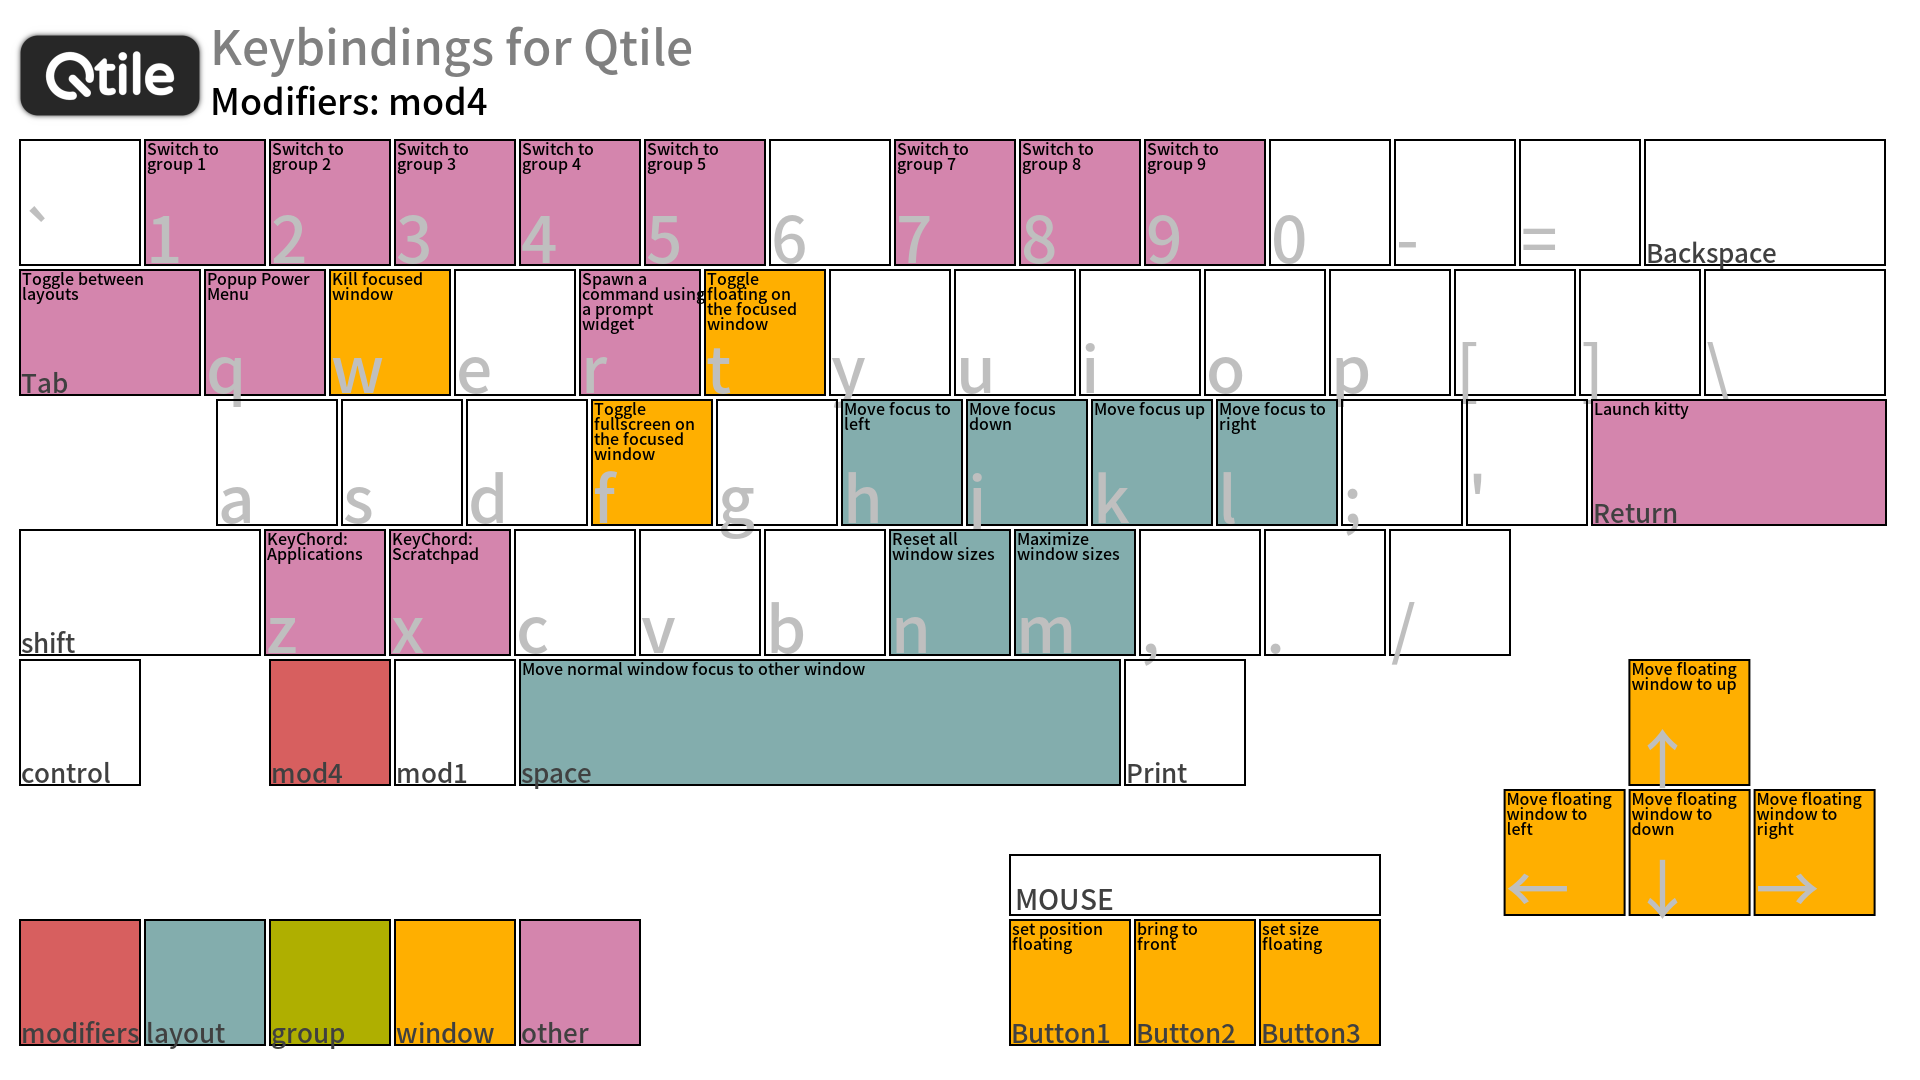
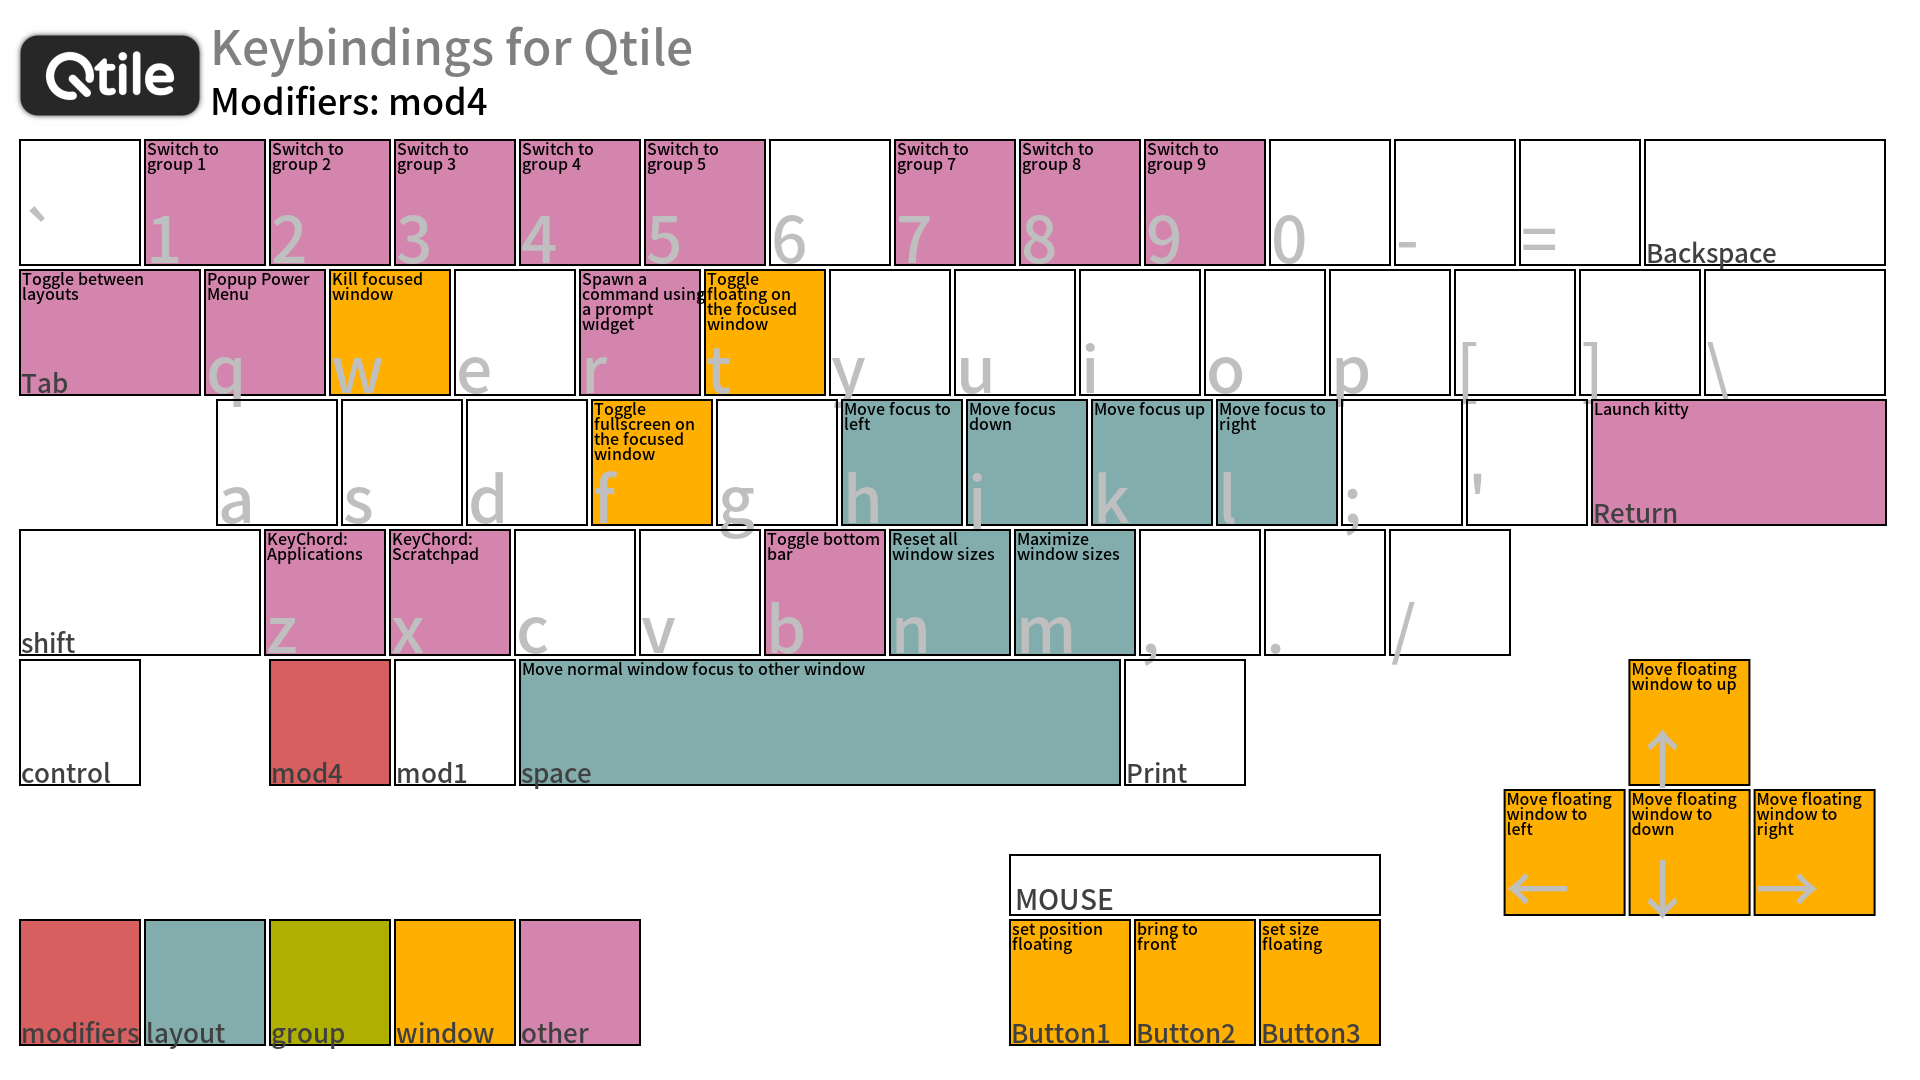
Making key binding descriptions easier to read

Changed region(s): [[0.375, 0.4889, 0.4688, 0.6111]]

diff --git a/modules/keys.py b/modules/keys.py
@@ -8,7 +8,7 @@ import os
 from libqtile.lazy import lazy
 from libqtile.config import Key, KeyChord
 #
-from modules.variables import mod1, mod4
+from modules.variables import mod4
 from modules.dmenu import dmenu_normal, dmenu_power, dmenu_terminal, dmenu_window
 from modules.popup import show_power_menu
 from modules.functions import focus_next_floating
@@ -18,37 +18,36 @@ keys = [
   # A list of available commands that can be bound to keys can be found
   # at https://docs.qtile.org/en/latest/manual/config/lazy.html
 
+
   # Switch between windows
   Key([mod4], 'h', lazy.layout.left(),  desc = 'Move focus to left'),
   Key([mod4], 'l', lazy.layout.right(), desc = 'Move focus to right'),
   Key([mod4], 'j', lazy.layout.down(),  desc = 'Move focus down'),
   Key([mod4], 'k', lazy.layout.up(),    desc = 'Move focus up'),
 
+
   # Move windows between left/right columns or move up/down in current stack.
   # Moving out of range in Columns layout will create new column.
 
   # INFO: .config/qtile · Derek Taylor / Dotfiles · GitLab
   # https://gitlab.com/dwt1/dotfiles/-/tree/master/.config/qtile?ref_type=heads
-
   Key([mod4, 'shift'], 'h',
     lazy.layout.shuffle_left(),
     lazy.layout.move_left().when(layout = ['treetab']),
     desc = 'Move window to the left/move tab left in treetab'),
-
   Key([mod4, 'shift'], 'l',
     lazy.layout.shuffle_right(),
     lazy.layout.move_right().when(layout = ['treetab']),
     desc = 'Move window to the right/move tab right in treetab'),
-
   Key([mod4, 'shift'], 'j',
     lazy.layout.shuffle_down(),
     lazy.layout.section_down().when(layout = ['treetab']),
     desc = 'Move window down/move down a section in treetab'),
-
   Key([mod4, 'shift'], 'k',
     lazy.layout.shuffle_up(),
     lazy.layout.section_up().when(layout = ['treetab']),
     desc = 'Move window up/move up a section in treetab'),
+
 
   # Grow windows. If current window is on the edge of screen and direction
   # will be to screen edge - window would shrink.
@@ -57,49 +56,53 @@ keys = [
   Key([mod4, 'control'], 'j', lazy.layout.grow_down(),  desc = 'Grow window to down'),
   Key([mod4, 'control'], 'k', lazy.layout.grow_up(),    desc = 'Grow window to up'),
 
+
   ## Key([mod4, 'shift', 'control'], 'h', lazy.layout.swap_column_left(),  desc = 'Swap Column left'),
   ## Key([mod4, 'shift', 'control'], 'l', lazy.layout.swap_column_right(), desc = 'Swap Column right'),
+
 
   Key([mod4], 'Up',    lazy.window.move_floating(0, -10), desc = 'Move floating window to up'),
   Key([mod4], 'Down',  lazy.window.move_floating(0, 10),  desc = 'Move floating window to down'),
   Key([mod4], 'Left',  lazy.window.move_floating(-10, 0), desc = 'Move floating window to left'),
   Key([mod4], 'Right', lazy.window.move_floating(10, 0),  desc = 'Move floating window to right'),
 
+
   Key([mod4, 'shift'], 'Up',   lazy.window.resize_floating(0, 10),  desc = 'Resize floating window to bottom, large'),
   Key([mod4, 'shift'], 'Down', lazy.window.resize_floating(0, -10), desc = 'Resize floating window to bottom, small'),
   Key([mod4, 'shift'], 'Left', lazy.window.resize_floating(-5, 0),  desc = 'Resize floating window to right, small'),
   Key([mod4, 'shift'], 'Right', lazy.window.resize_floating(5, 0),  desc = 'Resize floating window to right, large'),
+
 
   # Toggle between split and unsplit sides of stack.
   # Split = all windows displayed
   # Unsplit = 1 window displayed, like Max layout, but still with
   # multiple stack panes
   Key([mod4, 'shift'], 'Return', lazy.layout.toggle_split(), desc = 'Toggle between split and unsplit sides of stack'),
-  # Toggle between different layouts as defined below
+
 
   Key([mod4], 'n', lazy.layout.normalize(),         desc = 'Reset all window sizes'),
   Key([mod4], 'm', lazy.layout.maximize(),          desc = 'Maximize window sizes'),
   Key([mod4], 'f', lazy.window.toggle_fullscreen(), desc = 'Toggle fullscreen on the focused window'),
   Key([mod4], 't', lazy.window.toggle_floating(),   desc = 'Toggle floating on the focused window'),
+  Key([mod4], 'w', lazy.window.kill(),              desc = 'Kill focused window'),
+  Key([mod4], 'q', lazy.function(show_power_menu),  desc = 'Popup Power Menu'),
+  Key([mod4], 'r', lazy.spawncmd(),                 desc = 'Spawn a command using a prompt widget'),
+  Key([mod4], 'b', lazy.hide_show_bar(position = 'bottom'), desc = 'Toggle bottom bar'),
+
 
   Key([mod4, 'control'], 'r', lazy.reload_config(), desc = 'Reload the config'),
-  Key([mod4], 'r', lazy.spawncmd(),                 desc = 'Spawn a command using a prompt widget'),
-  # Key([mod4, 'control'], 'q', lazy.shutdown(),      desc = 'Shutdown Qtile, logout'),
-  Key([mod4], 'q', lazy.function(show_power_menu),  desc = 'Popup Power Menu'),
-  Key([mod4],            'w', lazy.window.kill(),   desc = 'Kill focused window'),
 
   Key([mod4, 'control'], 'a', lazy.run_extension(dmenu_window),   desc = 'Dmenu All Tasks'),
   Key([mod4, 'control'], 'd', lazy.run_extension(dmenu_normal),   desc = 'Dmenu Run Normal'),
   Key([mod4, 'control'], 'm', lazy.run_extension(dmenu_power),    desc = 'Dmenu Power Menu'),
   Key([mod4, 'control'], 't', lazy.run_extension(dmenu_terminal), desc = 'Dmenu All Terminal'),
-  #
-  Key([mod4], 'Return', lazy.spawn('kitty'), desc = 'Launch kitty'),
-  # Key([mod4], 'Return', lazy.spawn('brave') if self.qtile.current_group == "2" else lazy.spawn('kitty')),
-  Key([mod4], 'space',  lazy.layout.next(),  desc = 'Move normal window focus to other window'),
-  Key([mod4], 'Tab',    lazy.next_layout(),  desc = 'Toggle between layouts'),
 
-  Key([mod4, 'shift'  ], 'space', lazy.function(focus_next_floating), desc = 'Move floating window focus to other window'),
-  # Key([mod4, 'control'], 'b',     lazy.function(toggle_bar),          desc = 'Toggle bottom bar'),
+
+  Key([mod4], 'Tab',    lazy.next_layout(),  desc = 'Toggle between layouts'),
+  Key([mod4], 'Return', lazy.spawn('kitty'), desc = 'Launch kitty'),
+  Key([mod4], 'space',  lazy.layout.next(),  desc = 'Move normal window focus to other window'),
+  Key([mod4, 'shift'], 'space', lazy.function(focus_next_floating), desc = 'Move floating window focus to other window'),
+
 
   # NOTE: Multiple monitor?
   # Key([mod4], 'o', lazy.to_screen(0), desc = 'To Main Screen'),
@@ -112,16 +115,11 @@ keys = [
   #   desc = 'Print screen'
   # ),
 
-  # Key([mod4, mod1], 'p',
-  #   lazy.spawn("scrot -z -p 'EndeavourOS_Qtile_%Y-%m-%d_%H-%M-%S.png' -e ' mv $f ~/Pictures/'"),
-  #   desc = 'Print screen now'),
-
   # `my_scrot_now` is `command scrot -z -p "EndeavourOS_Qtile_%Y-%m-%d_%H-%M-%S.png" -e "mv \$f ~/Pictures/"`
   Key([mod4, 'control'], 'p', lazy.spawn("fish -c 'my_scrot_now'"),  desc = 'Print screen now'),
   # `my_scrot_wait` is `command scrot -c -d 10 -z -p "EndeavourOS_Qtile_%Y-%m-%d_%H-%M-%S.png" -e "mv \$f ~/Pictures/"`
   Key([mod4, 'control'], 'i', lazy.spawn("fish -c 'my_scrot_wait'"), desc = 'Print screen after 10 sec'),
 
-  # Key([mod4, 'shift'], 'q', lazy.function(show_power_menu), desc = 'Popup Power Menu'),
 
   KeyChord([mod4], 'z', [
       # TODO: brave --incognito

diff --git a/modules/functions.py b/modules/functions.py
@@ -53,13 +53,4 @@ def go_to_group_and_move_window(name: str):
   return _inner
 
 
-# NOTE: This function does not work
-# Toggle, show or hide bottom bar
-# def toggle_bar(qtile):
-#   screen = qtile.current_screen
-#   bar = screen.bottom
-#   if bar and hasattr(bar, 'window') and hasattr(bar.window, 'toggle'):
-#     bar.window.toggle()
-
-
 ##
